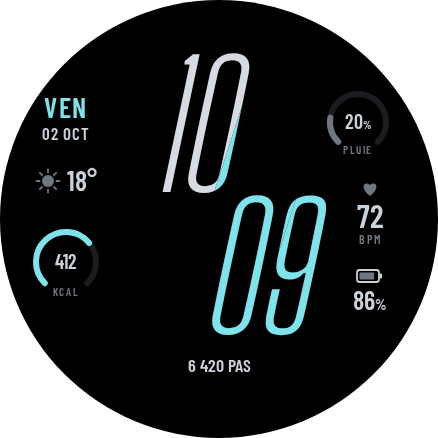
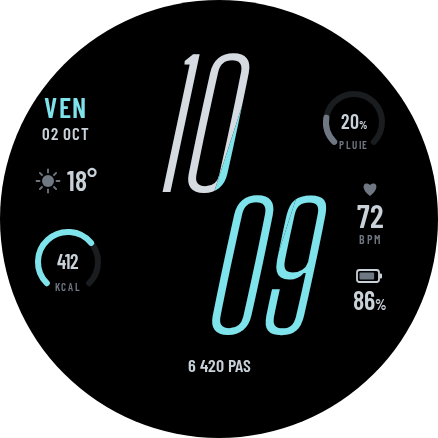
Prisme : essai d'effet loupe (dôme de verre) sur les jauges
Les jauges pluie et calories passent sous un dôme : contenu et fond
grossis de 20 % dans un disque, bord assombri, reflet, croissant de
lumière et ombre portée. Libellés remontés dans l'ouverture des jauges.

Claude-Session: https://claude.ai/code/session_01MEdY8gaQcWfzgRykkGgopN

Changed region(s): [[0.0594, 0.5046, 0.2374, 0.6826], [0.7123, 0.2078, 0.8904, 0.3562]]

diff --git a/concepts/prisme/README.md b/concepts/prisme/README.md
@@ -28,6 +28,15 @@ Deux jauges en arc dans les zones libres : **pluie** (haut droite, bande claire,
 `[WEATHER.CHANCE_OF_PRECIPITATION]`) et **calories / objectif** (bas gauche, bande sombre,
 complication `RANGED_VALUE`). La météo remonte sur une ligne à côté de la date.
 
+### Essai « dôme » : loupes sur les jauges
+
+![Essai dôme](prisme-lagune-dome.png)
+
+Chaque jauge est sous un dôme de verre : jauge **et fond** grossis d'environ 20 % (la limite
+entre bandes se décale comme à travers une lentille), bord assombri (réfraction), reflet en
+haut à gauche, croissant de lumière en bas à droite, ombre portée. En WFF : `Group` mis à
+l'échelle (`scaleX`/`scaleY`) sous un masque rond, verre et reflets en PNG translucide.
+
 Différences avec les cadrans « à bandes » existants : bandes diagonales (pas verticales),
 heure sur deux lignes (pas en escalier sur une ligne), chiffres penchés, données disposées
 dans les bandes extrêmes, palettes propres.
